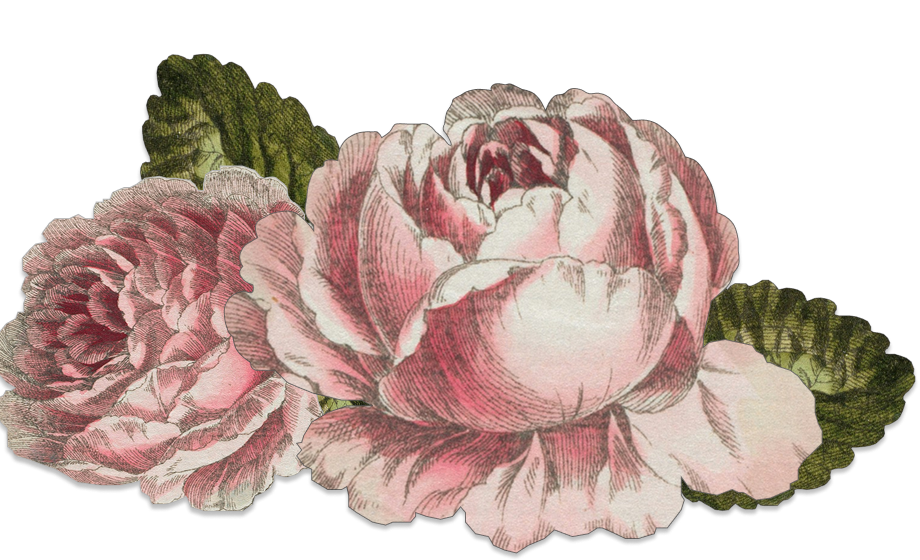
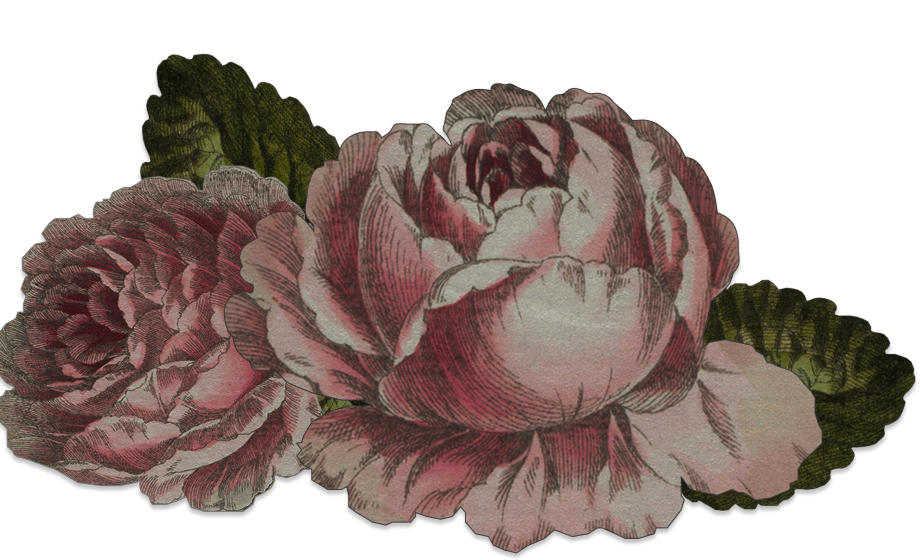
styling done on desktop aboutme.html

diff --git a/naotoisayama/src/styles/styles.css b/naotoisayama/src/styles/styles.css
@@ -8,6 +8,11 @@ html {
     font-size: 16px;
 }
 
+* {
+    margin: 0;
+    padding: 0;
+}
+
 :root {
     /* colors */
     --light-color:#FAF9F6;
@@ -21,8 +26,9 @@ html {
     --body-font: "Lato", serif;
 
     /* font sizes */
-    --body-size: 1.618rem; /* 1 * golden ratio*/
+    --body-size: clamp(1.0rem, 1.5vw, 5rem); /* 1 * golden ratio*/
     --title: clamp(4.0rem, 7vw, 8rem); /* 4 * golden ratio */ 
+    --secondary: clamp(3.0rem, 5vw, 5rem)
 }
 
 .header-font {
@@ -31,6 +37,13 @@ html {
     font-weight: 500;
     color: var(--light-color);
     transition: color 0.25s ease-in-out;
+}
+
+.secondary-font {
+    font-size: var(--secondary);
+    font-family: var(--header-font);
+    font-weight: 400;
+    color: var(--light-color);
 }
 
 .header-font:hover {
@@ -48,6 +61,12 @@ html {
     font-family: var(--body-font);
     font-weight: 300;
     font-size: var(--body-size);
+    line-height: 1.5;
+}
+
+.spacer {
+    display: block;
+    height: 2rem;
 }
 
 body {
@@ -57,7 +76,8 @@ body {
     min-width: 100vw;
     height: 100vh;
     width: 100vw;
-    overflow: hidden;
+    overflow-y: scroll;
+    overflow-x: hidden;
     display: flex;
     flex-direction: column;
     justify-content: space-between;
@@ -79,7 +99,7 @@ a:hover {
 
 p {
     padding: 0;
-    margin: 0;
+    margin: 1.5rem 0;
 }
 
 .blur {
@@ -184,7 +204,7 @@ p {
 /*------ Blur flower image on non-home pages ------*/
 
 [data-blur="true"] + #flower-image {
-    --page-blur: 4px;
+    --page-blur: 16px;
 }
 
 [data-blur="false"] + #flower-image {
@@ -206,7 +226,7 @@ header {
 }
 
 header:has(a img:hover) ~ img {
-    filter: blur(4px) !important;
+    filter: blur(6px) !important;
 }
 
 #logo-link-wrapper {
@@ -240,7 +260,7 @@ nav {
 }
 
 .home-main:has(li:hover) + #flower-image {
-    --hover-blur: 4px !important;
+    --hover-blur: 6px !important;
 }
 
 #flower-image {
@@ -290,7 +310,30 @@ footer p {
 /*----end index.html styles ------*/
 
 .aboutMe-main {
-    height: 100%;
+    min-height: 100%;
+    height: max-content;
+    background-color: var(--transparent-color);
+    display: flex;
+    align-items: flex-start;
+    margin: 3rem 0;
+}
+
+.text-container {
+    padding: 1rem 0;
+    width: 50%;
+}
+
+.img-container {
+    width: 50%;
+    display: flex;
+    justify-content: flex-end;
+    align-items: center;
+}
+
+#aboutme-img {
+    margin-top: 1rem;
+    aspect-ratio: 3/4;
+    width: 75%;
 }
 
 /*------ aboutme.html ------*/

diff --git a/naotoisayama/mywork.html b/naotoisayama/mywork.html
@@ -52,32 +52,11 @@
 
     <!--main Content-->
     <!--Sized as the right 2/3rds of the page, right aligned, standard top padding-->
-    <section class="barba-container aboutMe-main fade" data-barba="container" data-barba-namespace="aboutme" data-blur="true">
-        <div class="text-container">
-            <h1 class="secondary-font">ABOUT ME</h1>
-            <p class="body-font-light">
-                I'm Naoto (Jacob) Isayama - a web designer and developer based in Edmonton.
-            </p>
-            <p class="body-font-light">
-                I create distinctive, custom websites for small business that want to stand out - without
-                compromising on usability or long-term manageability.
-            </p>
-            <p class="body-font-light">
-                My process begins with in-depth research into your field, followed by a fully custom design tailored to you.
-                Once we're aligned on the visual direction, I personally hand-code the website to ensure performance, accessibility,
-                and attention to detail.
-            </p>
-            <p class="body-font-light">
-                Every site I build includes a user-friendly content management solution, and I take the time to walk you through how everything
-                works - so you're confident and in control from day 1.
-            </p>
-        </div>
-        <div class="img-container">
-            <img id="aboutme-img" src="/public/edmonton.jpg" alt="">
-        </div>
+    <section class="barba-container aboutMe-main fade" data-barba="container" data-barba-namespace="mywork" data-blur="true">
+        <h1 class="header-font">NEW CONTENT</h1>
     </section>
 
-    <img id="flower-image" src="/public/Flowers 1 (3).png" alt="">
+    <img id="flower-image" src="/public/Flowers.png" alt="">
 
     <footer> 
         <p class="body-font-light">© Copyright 2025</p>

diff --git a/naotoisayama/index.html b/naotoisayama/index.html
@@ -34,7 +34,6 @@
 
      <!--scripts-->
      <script type="module" src="/src/main.js"></script>
-     <!--<script type="module" src="/src/unblur.js"></script>-->
 
 
 </head>
@@ -63,7 +62,7 @@
             </ul>
         </nav>
     </section>
-    <img id="flower-image" src="/public/Flowers.png" alt="">
+    <img id="flower-image" src="/public/Flowers 1 (3).png" alt="">
     <footer> 
         <p class="body-font-light">© Copyright 2025</p>
     </footer>

diff --git a/naotoisayama/vite.config.js b/naotoisayama/vite.config.js
@@ -6,6 +6,7 @@ export default defineConfig({
       input: {
         main: 'index.html',
         aboutme: 'aboutme.html',
+        mywork: 'mywork.html',
         // Add other pages as needed
       }
     }
